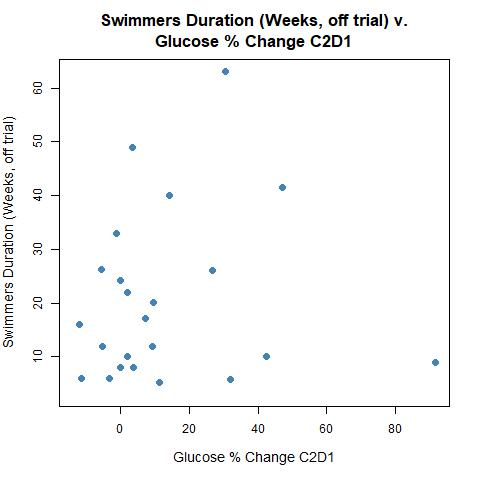
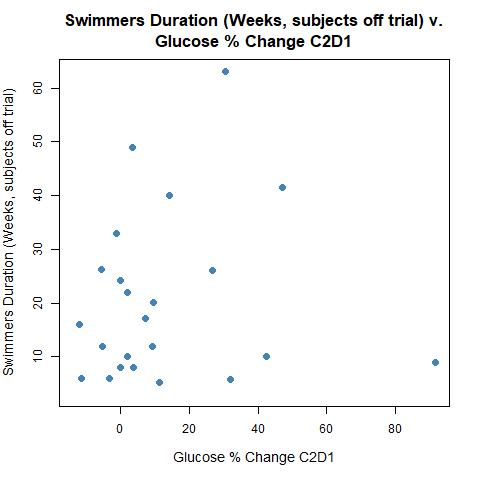
update pictures for predict outcomes

Changed region(s): [[0.125, 0.0312, 0.9375, 0.0625], [0.0, 0.1875, 0.0312, 0.7812]]

diff --git a/predict_outcomes.html b/predict_outcomes.html
@@ -39,10 +39,30 @@
     <div>Show outcomes as a function of metabolic and other parameters</div><br><br>
     <label for="dropdown1">Select X axis parameter (Metabolic, etc): </label>
     <select id="dropdown1">
+      <option value="AdipC1D1">Adiponectin (C1D1)</option> 
       <option value="AdipPctCh">Adiponectin % Change at C2D1</option> 
+
+      <option value="GlucoseC1D1">Glucose (C1D1)</option> 
       <option value="GlucosePctCh">Glucose % Change at C2D1</option> 
+
+      <option value="HbA1cC1D1">HbA1c (C1D1)</option>
       <option value="HbA1cPctCh">HbA1c % Change at C2D1</option>
+      <option value="HDLC1D1">HDL (C1D1)</option>
+      <option value="HDLPctCh">HDL % Change at C2D1</option>
+
+      <option value="LARC1D1">LAR (C1D1)</option>
+      <option value="LARPctCh">LAR % Change at C2D1</option>
+      <option value="LDLC1D1">LDL (C1D1)</option>
+      <option value="LDLPctCh">LDL % Change at C2D1</option>
+      <option value="LeptinC1D1">Leptin (C1D1)</option>
       <option value="LeptinPctCh">Leptin % Change at C2D1</option>
+
+      <option value="TotCholC1D1">Total Cholesterol (C1D1)</option>
+      <option value="TotCholPctCh">Total Cholesterol % Change at C2D1</option>
+      <option value="TrigC1D1">Triglycerides (C1D1)</option>
+      <option value="TrigPctCh">Triglycerides % Change at C2D1</option>
+
+      <option value="WeightC1D1">Weight (C1D1)</option>
       <option value="WeightPctCh">Weight % Change at C2D1</option>
 
     </select><br><br><br>
@@ -52,7 +72,8 @@
       <option value="LargestAbsValueDiamPctChange">Largest % Change, target lesion diameters</option> 
       <option value="LowestDiamPctCh">Lowest % Change, target lesion diameters</option> 
       <option value="LowestResponseOrder">Best Response</option> 
-      <option value="SwimmersDurationWeeks_OffTrial">Swimmer's plot duration (patient off trial only)</option> 
+      <option value="SwimmersDurationWeeks_OffTrial">Swimmer's plot duration (off trial patients only)</option> 
+      <option value="SwimmersDurationWeeks">Swimmer's plot duration (all patientS)</option> 
     </select>
   </div>
 
